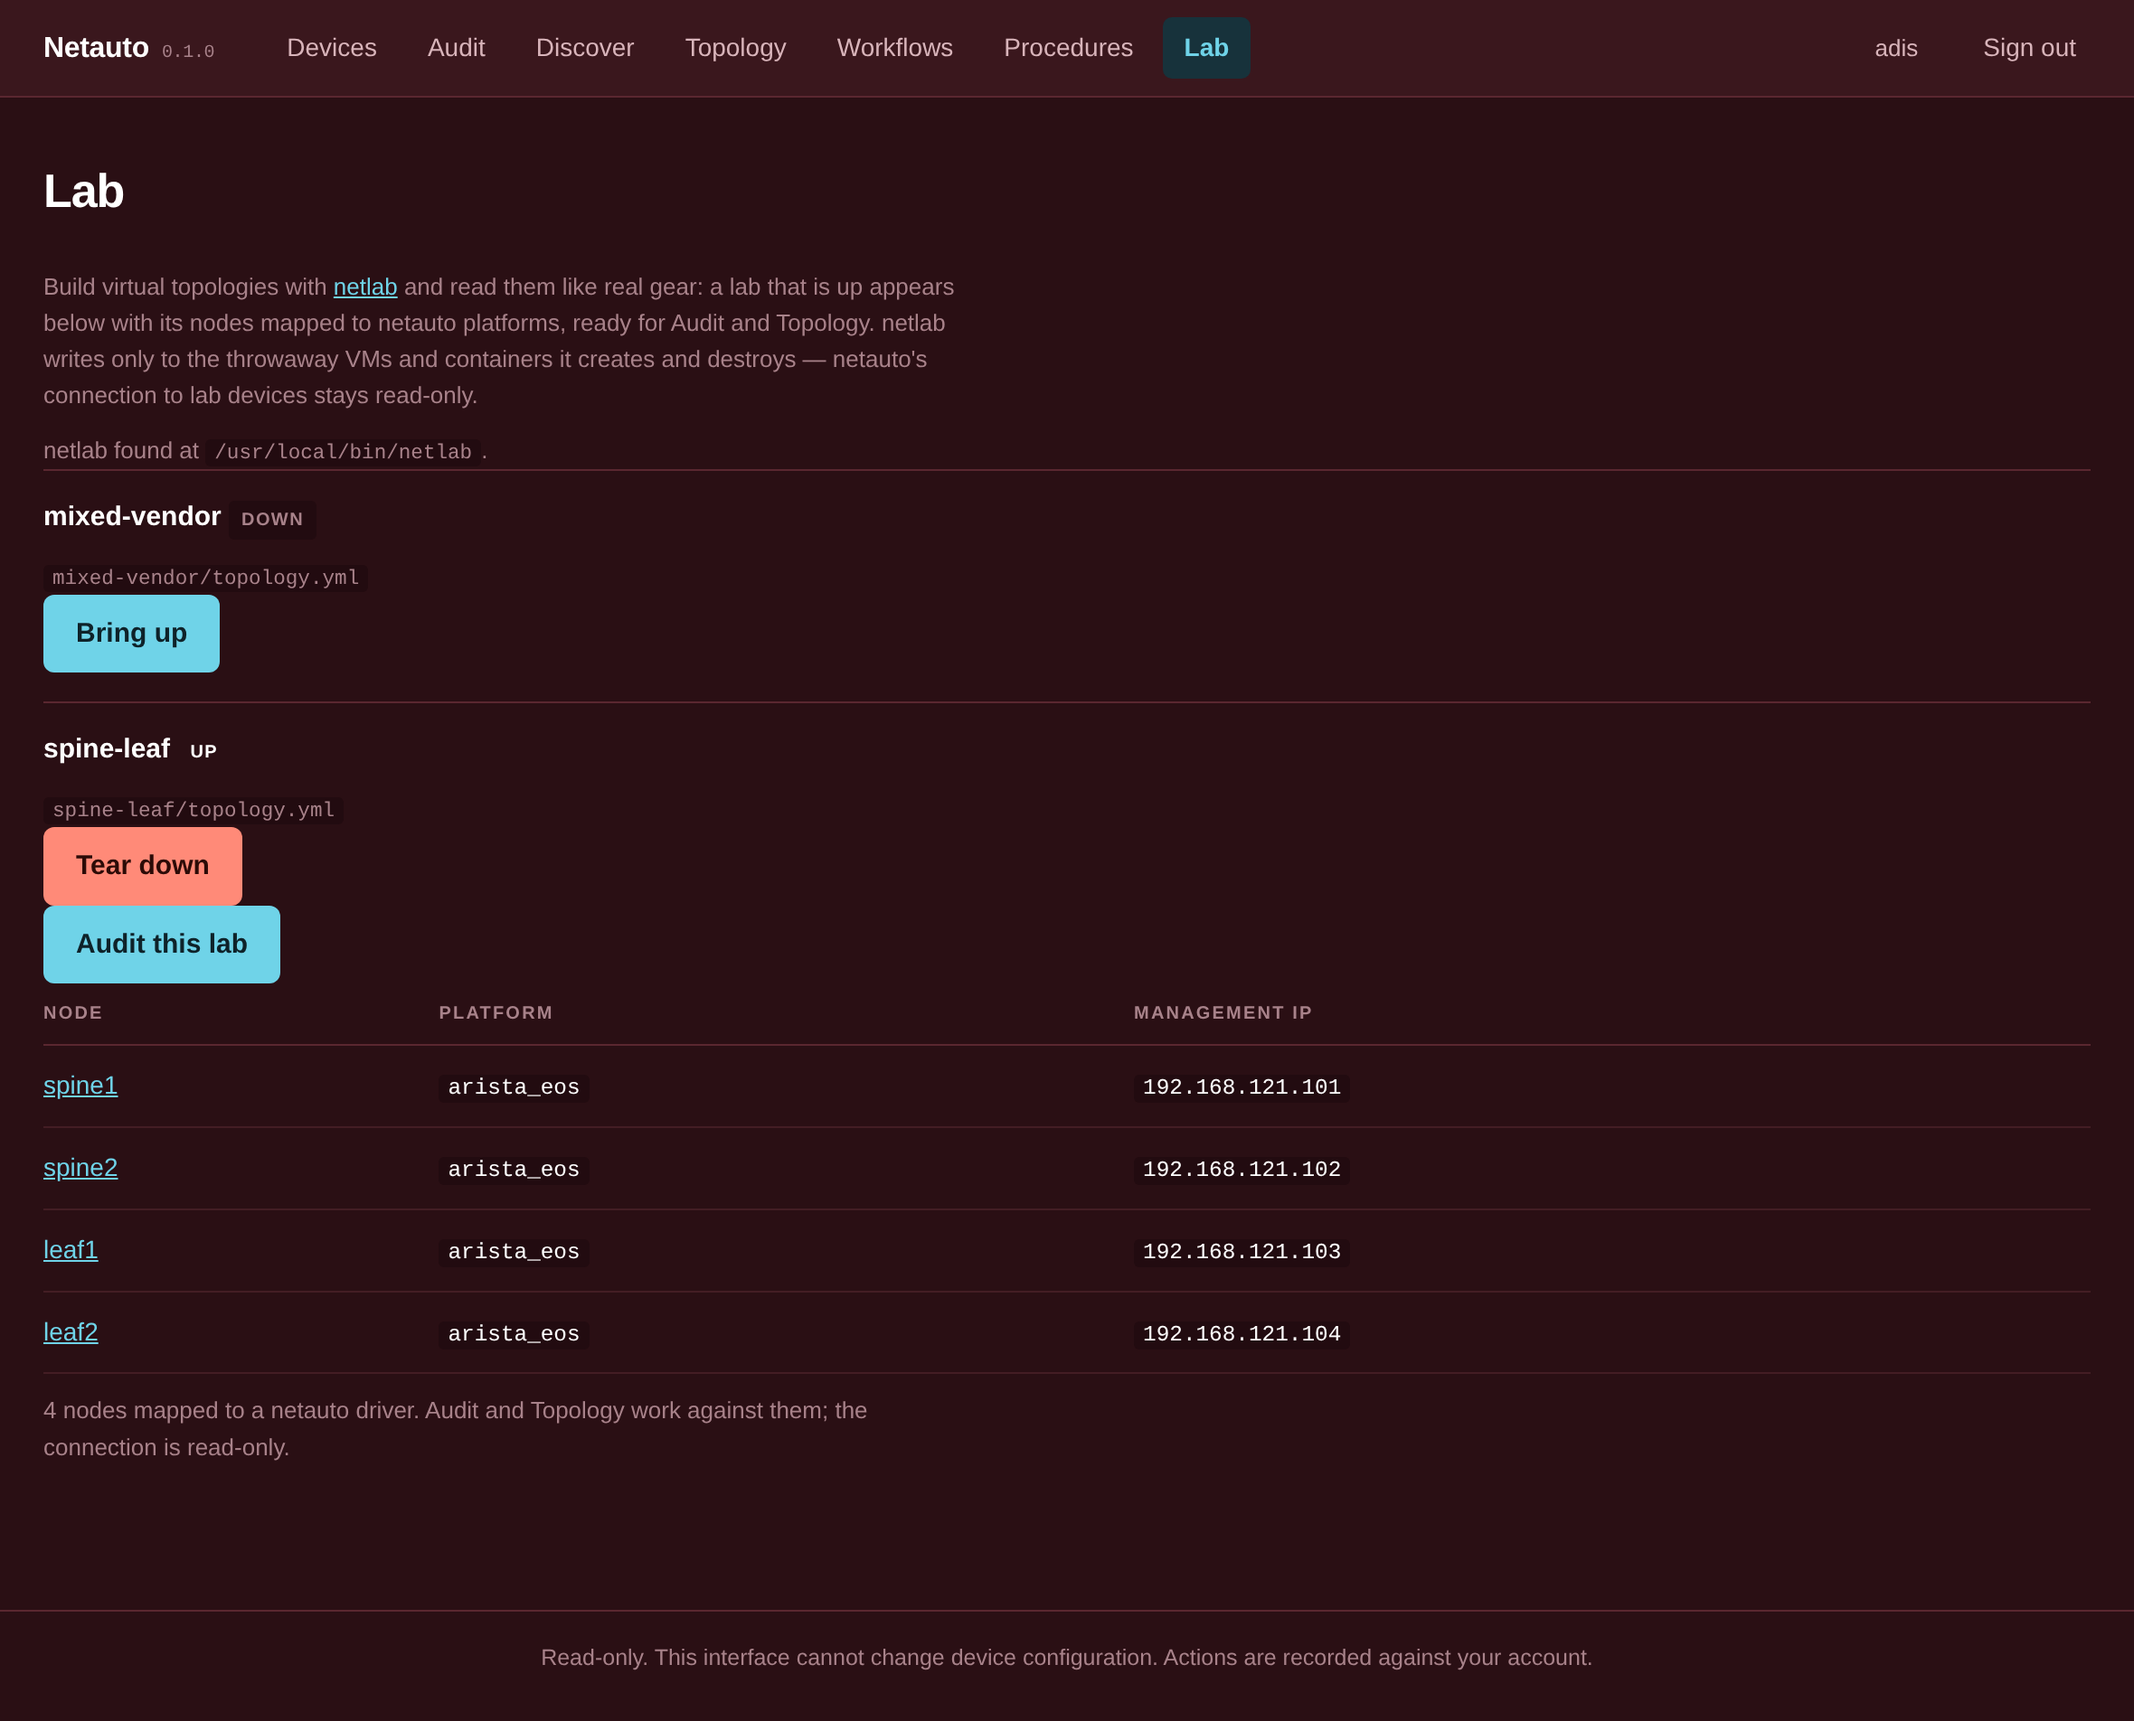
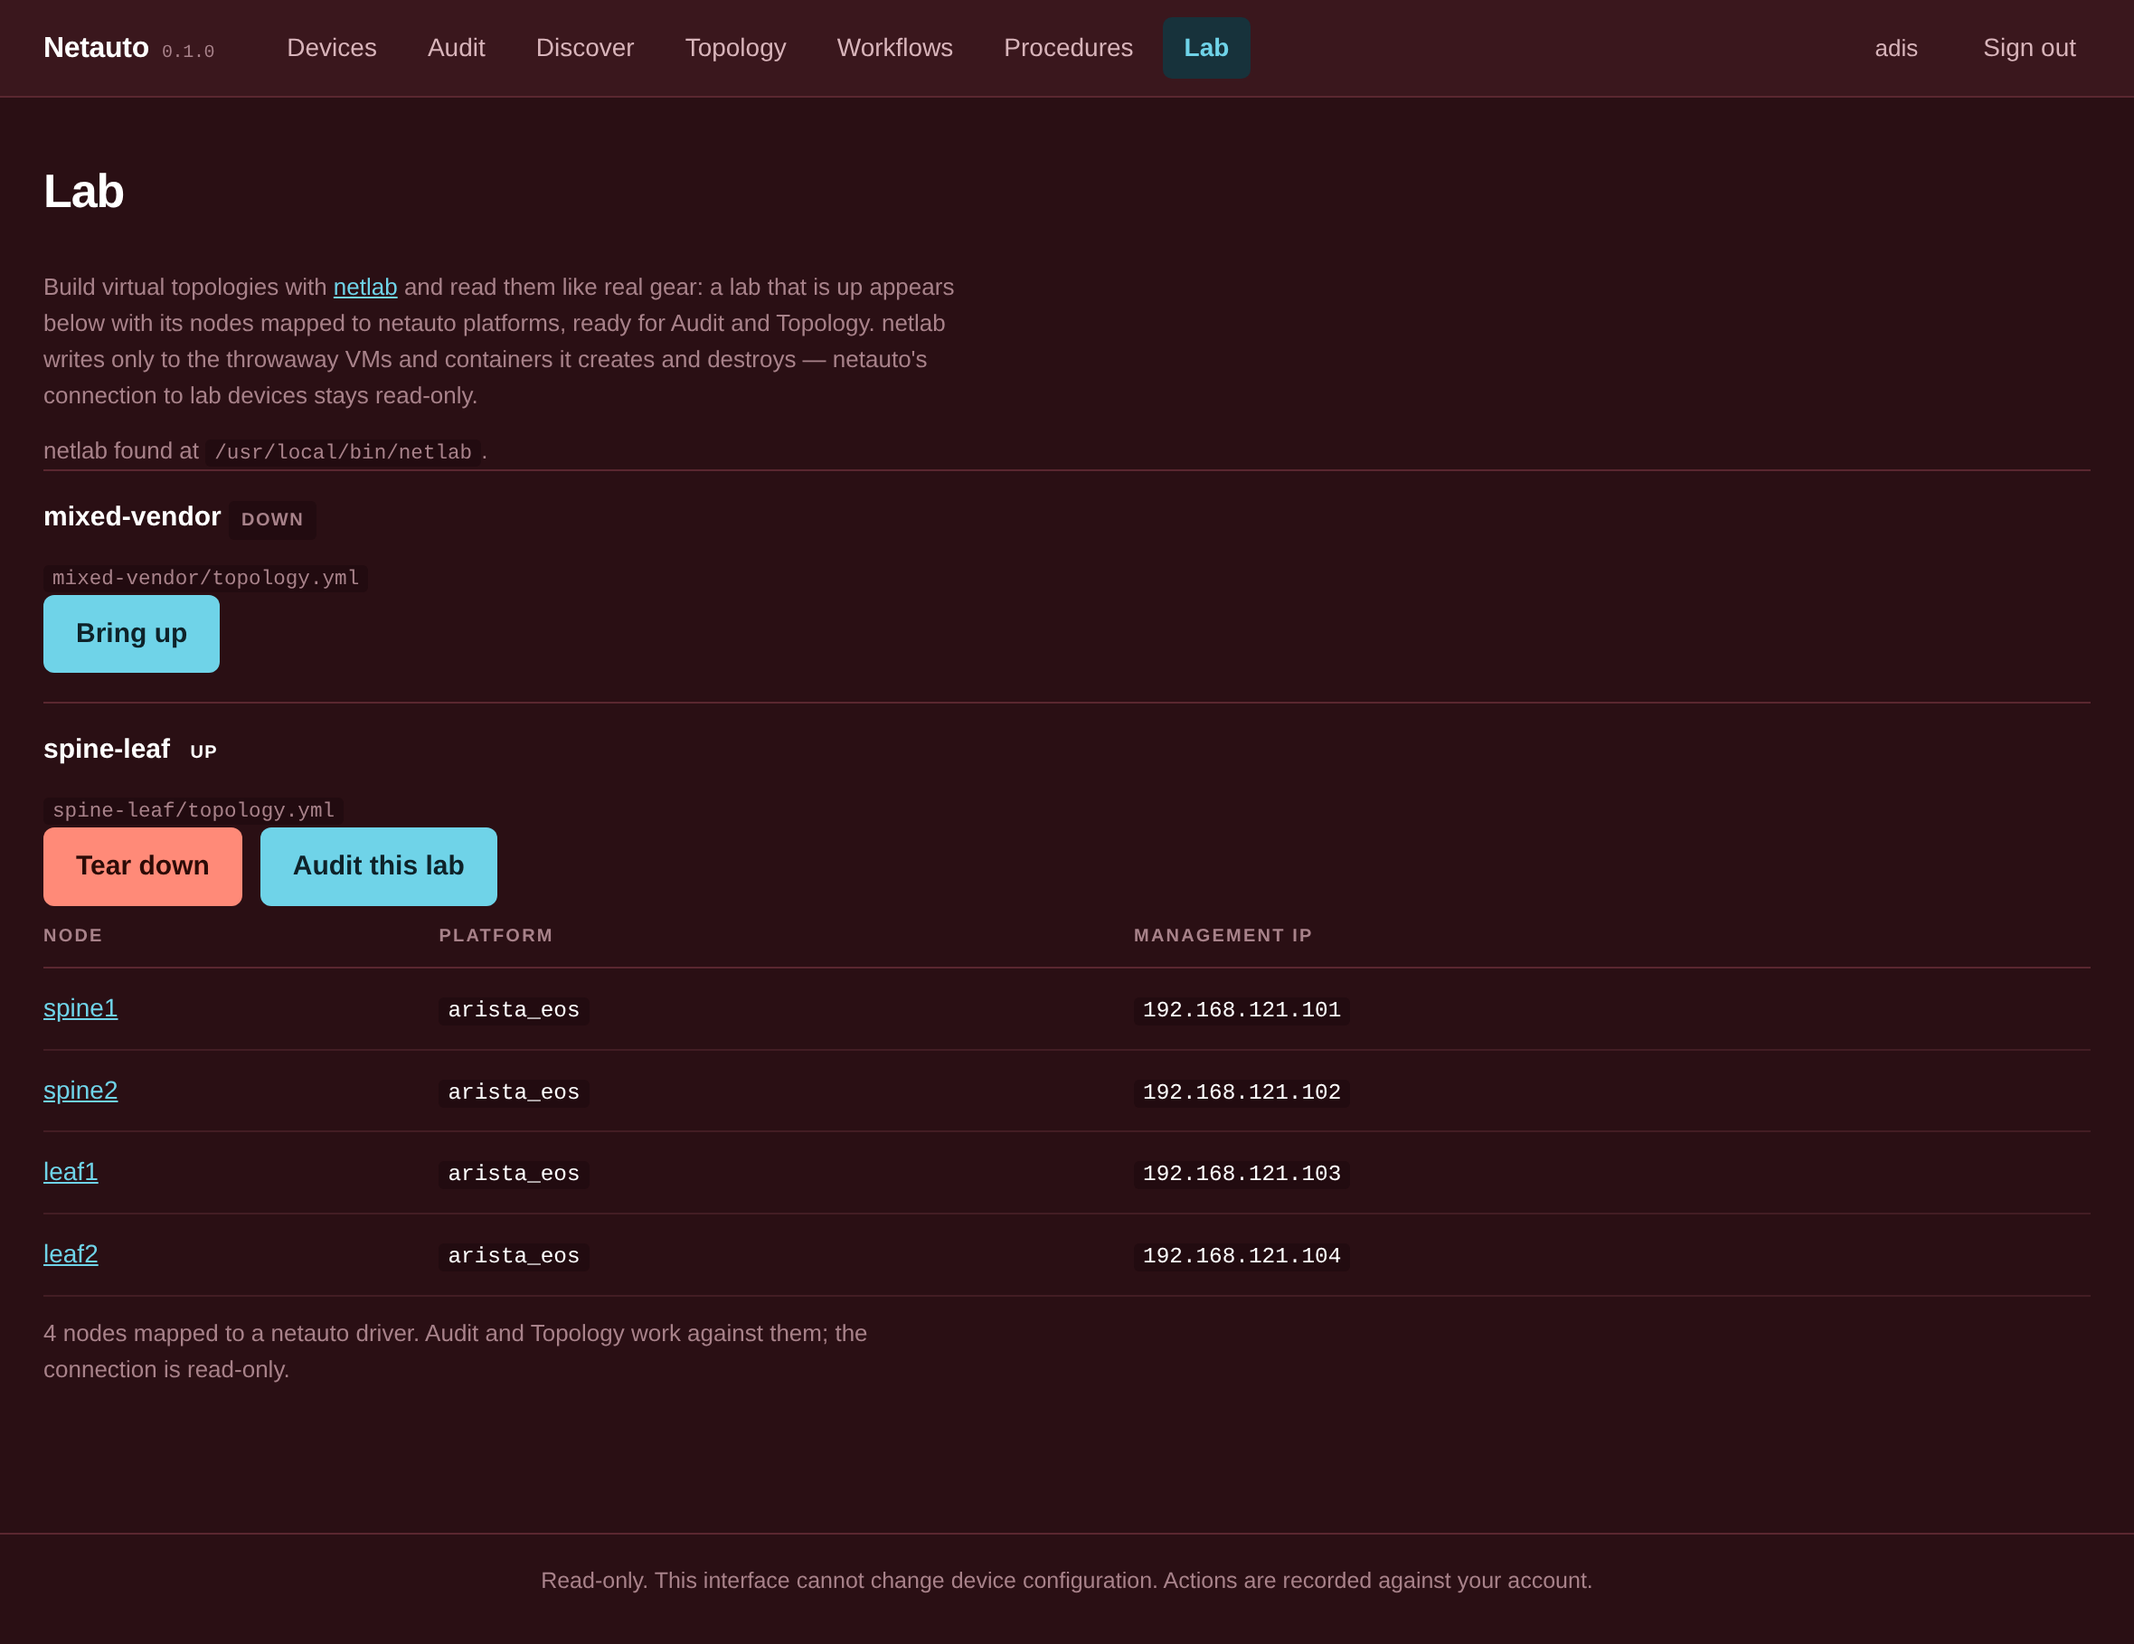
Fix two layout faults the maroon screenshots exposed
Both were visible only once the pages were photographed, which is roughly
the argument for generating the screenshots.

The Software Upgrade fields were clipped to "firmwar" and "tftp/ftp s".
`.inline input[size]` pinned a fixed 9ch width; it was written for the
Discover page's ports box, which is short because it holds "22,23", and
the selector also caught the two upgrade fields. Three templates set
`size` to three different values, so the attribute already said how wide
each should be and the rule was overriding all of it. Dropping the width
is the whole fix -- `flex:0 0 auto` is the part that was doing real work,
stopping the 240px basis above stretching them out.

The Lab page's Tear down and Audit this lab buttons touched. They are two
sibling forms, which stack as blocks, and `.inline button` resets the
margin that would otherwise have separated them -- so the gap was exactly
zero. They are two actions on one lab, so they now share a row and take
the gap `.inline` already provides.

tests/test_styles.py grows a guard for the first one: a rule that sets a
width on an input declaring its own `size` clips whichever field is
longest, and nothing but a screenshot shows it. Same shape as the
collisions that file already covers -- a selector matching more than the
thing it was written for.

Only three screenshots move, which is the deterministic generator
earning its keep: the other seven regenerate byte-identical.

diff --git a/netauto/web/templates/lab.html b/netauto/web/templates/lab.html
@@ -63,24 +63,31 @@
     </h3>
     <p class="note"><code>{{ lab.id }}</code></p>
 
-    {% if available %}
-    <form method="post" action="/lab/{{ 'down' if lab.up else 'up' }}" class="inline">
-      <input type="hidden" name="csrf_token" value="{{ csrf_token }}">
-      <input type="hidden" name="topology" value="{{ lab.id }}">
-      {% if lab.up %}
-        <button type="submit" class="danger">Tear down</button>
-      {% else %}
-        <button type="submit" class="primary">Bring up</button>
+    {#- One row for everything you can do to this lab. They used to be two
+        sibling forms, which stack as blocks, and the margin reset inside
+        .inline left them with no gap at all -- the buttons touched. -#}
+    {% if available or lab.up %}
+    <div class="inline">
+      {% if available %}
+      <form method="post" action="/lab/{{ 'down' if lab.up else 'up' }}" class="inline">
+        <input type="hidden" name="csrf_token" value="{{ csrf_token }}">
+        <input type="hidden" name="topology" value="{{ lab.id }}">
+        {% if lab.up %}
+          <button type="submit" class="danger">Tear down</button>
+        {% else %}
+          <button type="submit" class="primary">Bring up</button>
+        {% endif %}
+      </form>
       {% endif %}
-    </form>
-    {% endif %}
 
-    {% if lab.up %}
-    <form method="post" action="/lab/audit" class="inline">
-      <input type="hidden" name="csrf_token" value="{{ csrf_token }}">
-      <input type="hidden" name="topology" value="{{ lab.id }}">
-      <button type="submit" class="primary">Audit this lab</button>
-    </form>
+      {% if lab.up %}
+      <form method="post" action="/lab/audit" class="inline">
+        <input type="hidden" name="csrf_token" value="{{ csrf_token }}">
+        <input type="hidden" name="topology" value="{{ lab.id }}">
+        <button type="submit" class="primary">Audit this lab</button>
+      </form>
+      {% endif %}
+    </div>
     {% endif %}
 
     {% if lab.up %}

diff --git a/netauto/web/static/style.css b/netauto/web/static/style.css
@@ -213,8 +213,13 @@ tr.row-fail { background:var(--bad-soft); }
 .inline input[type="checkbox"] { min-width:0; flex:0 0 auto; margin:0 4px 0 0; }
 .inline label { font-size:13px; color:var(--muted); }
 .inline label:has(input[type="checkbox"]) { display:flex; align-items:center; white-space:nowrap; }
-/* A short field should stay short -- the ports box asks for "22,23". */
-.inline input[size] { min-width:0; flex:0 0 auto; width:9ch; }
+/* A field that declares `size` gets the width it asked for. This rule was
+   written for the ports box, which is short because it holds "22,23", and the
+   fixed 9ch it used to set also caught the two upgrade fields -- which is why
+   their placeholders read "firmwar" and "tftp/ftp s" instead of naming a
+   firmware image and a server. flex:0 0 auto is the part that matters: it stops
+   the 240px rule above stretching them back out. */
+.inline input[size] { min-width:0; flex:0 0 auto; }
 .inline .or { color:var(--faint); font-size:13px; }
 
 .btn {

diff --git a/tests/test_styles.py b/tests/test_styles.py
@@ -79,3 +79,30 @@ def test_data_values_do_not_collide_with_structural_rules(family, values):
         f"stylesheet also styles as a bare rule. Scope that rule to the element "
         f"it is for; see the note at the top of this file."
     )
+
+
+def test_no_rule_overrides_the_width_of_a_field_that_declares_its_size():
+    """A `size` attribute is the template saying how wide a field should be.
+
+    The stylesheet pinned every `.inline input[size]` to a fixed 9ch. That was
+    written for the ports box on the Discover page, which is short because it
+    holds "22,23" -- but the selector also caught the two Software Upgrade
+    fields, whose placeholders name a firmware image and a server. They were
+    clipped to "firmwar" and "tftp/ftp s", and the only place it showed was a
+    screenshot.
+
+    The same shape as the collisions above: a selector matching more than the
+    thing it was written for. The fix is not to drop the `size` attributes --
+    they carry real intent, and three templates set them to three different
+    values -- so the rule must leave the width alone.
+    """
+    rules = re.findall(r'([^{}]*input\[size\][^{}]*)\{([^}]*)\}', CSS.read_text())
+    assert rules, "no rule targets input[size]; has the selector been renamed?"
+    # Anchored to a property boundary: `min-width:0` is fine and is what stops
+    # the 240px flex-basis above stretching these fields out.
+    pinned = [sel.strip() for sel, body in rules
+              if re.search(r'(?:^|;)\s*width\s*:', body)]
+    assert not pinned, (
+        f"{pinned} sets a width on inputs that declare their own size, which "
+        f"clips whichever field is longest. Size them in the template."
+    )
